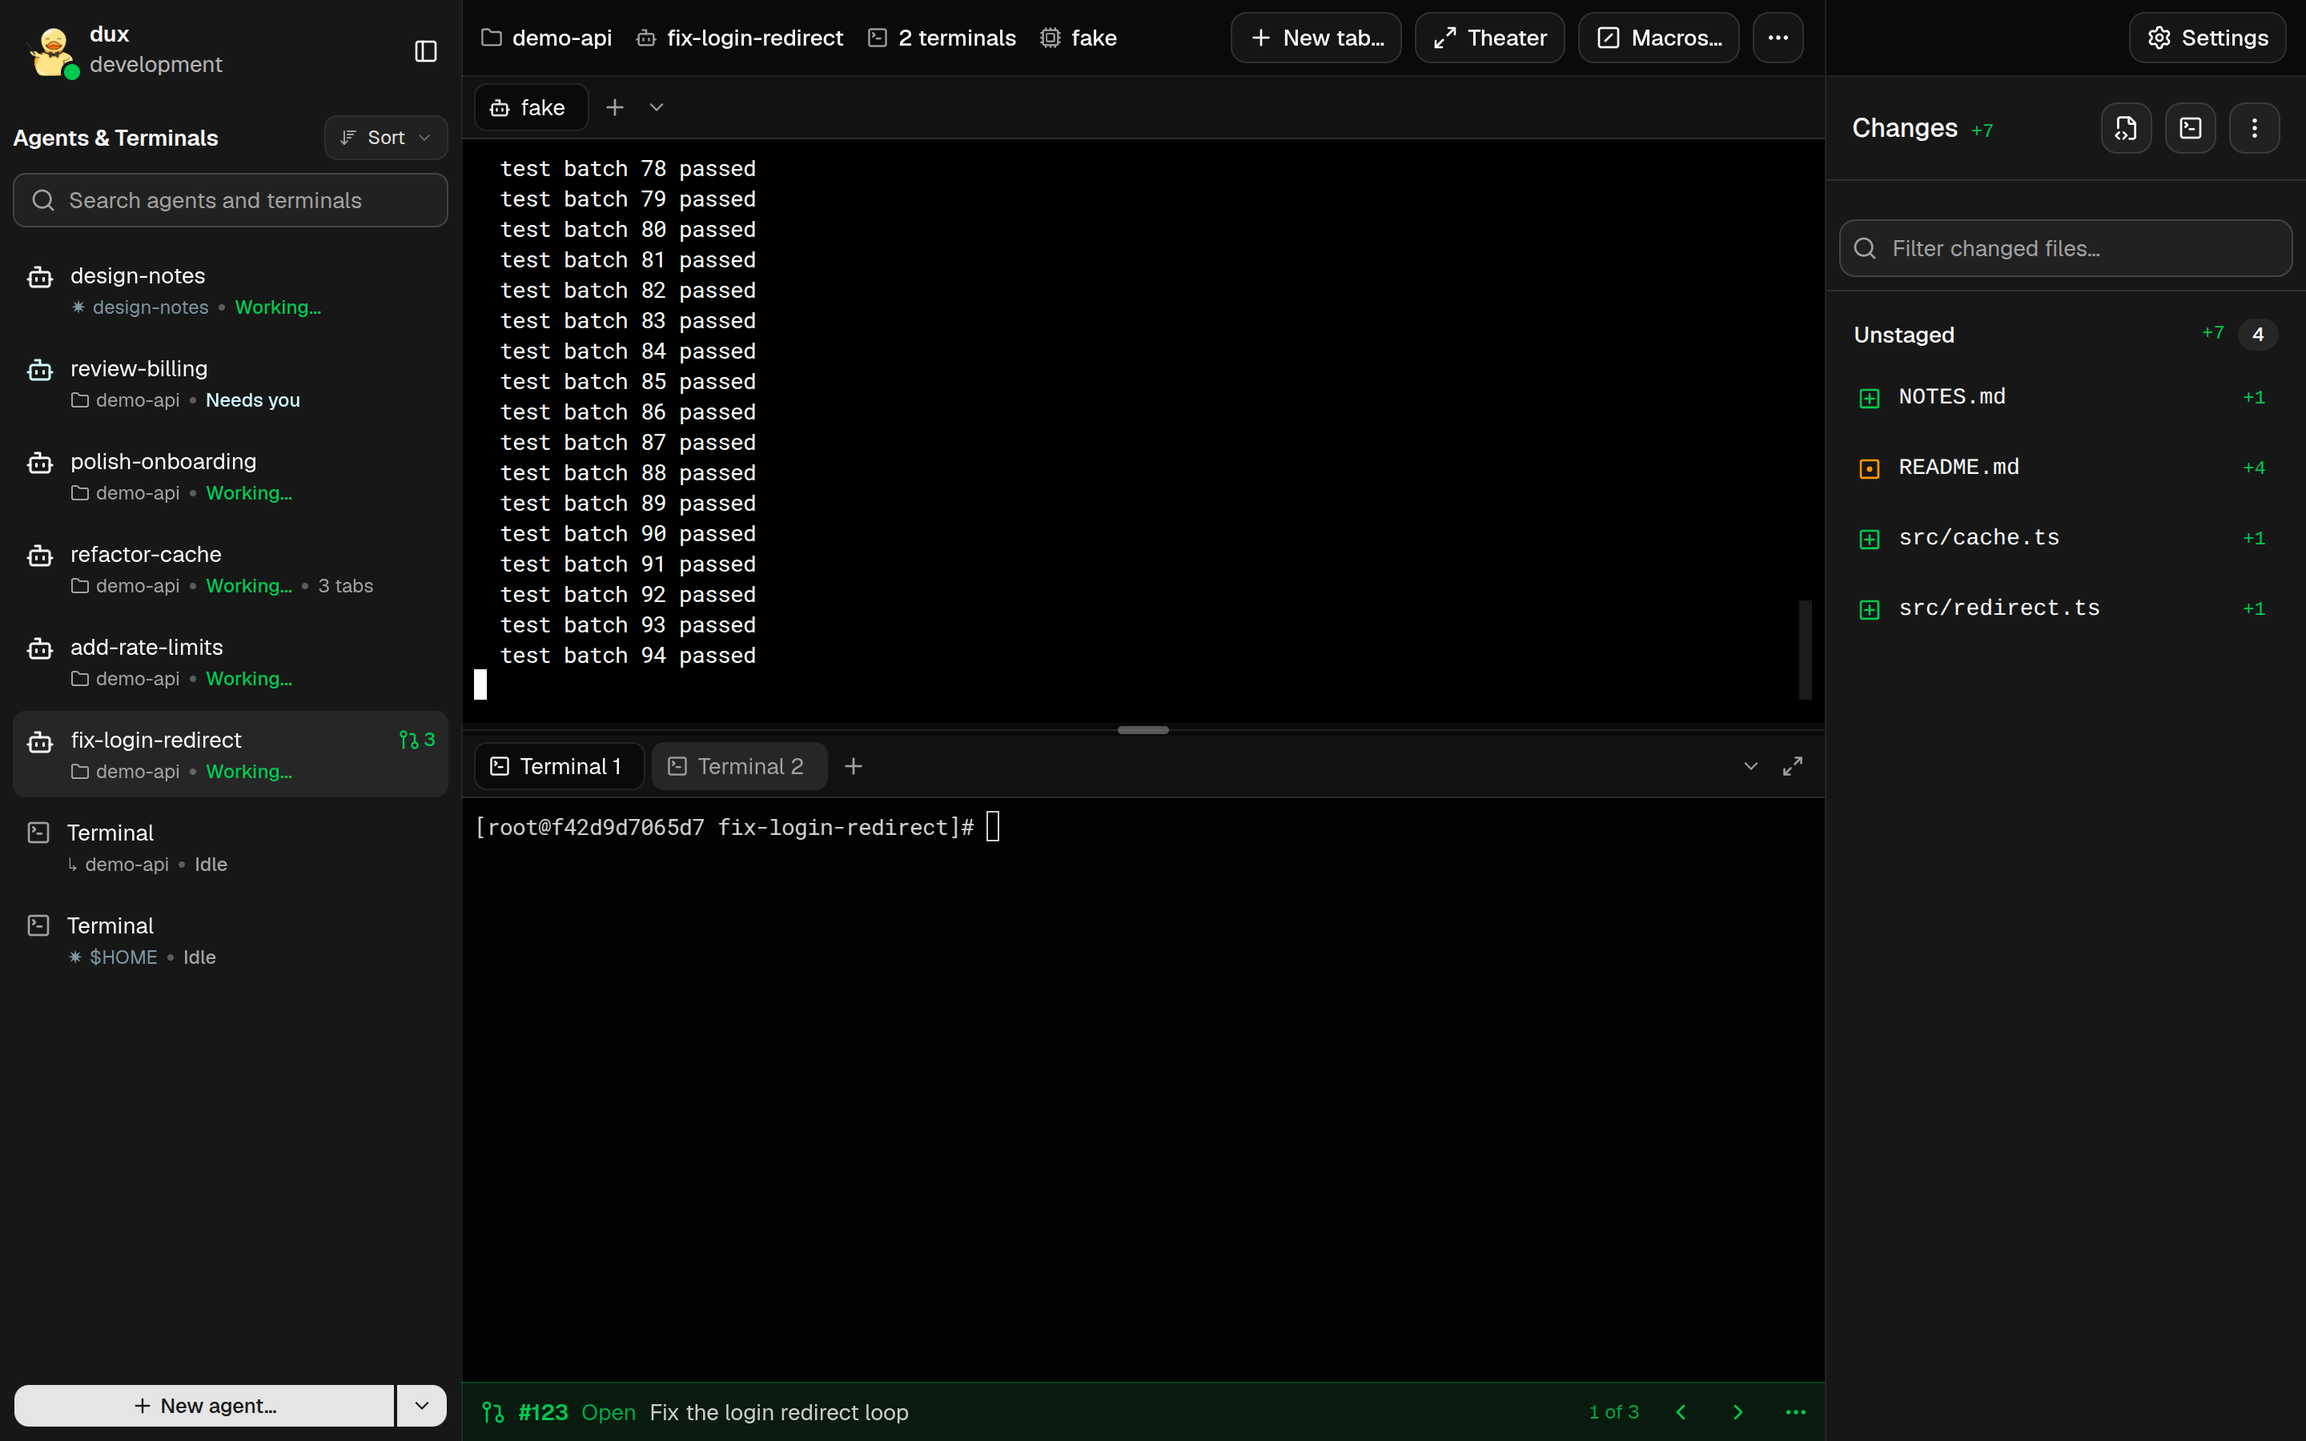
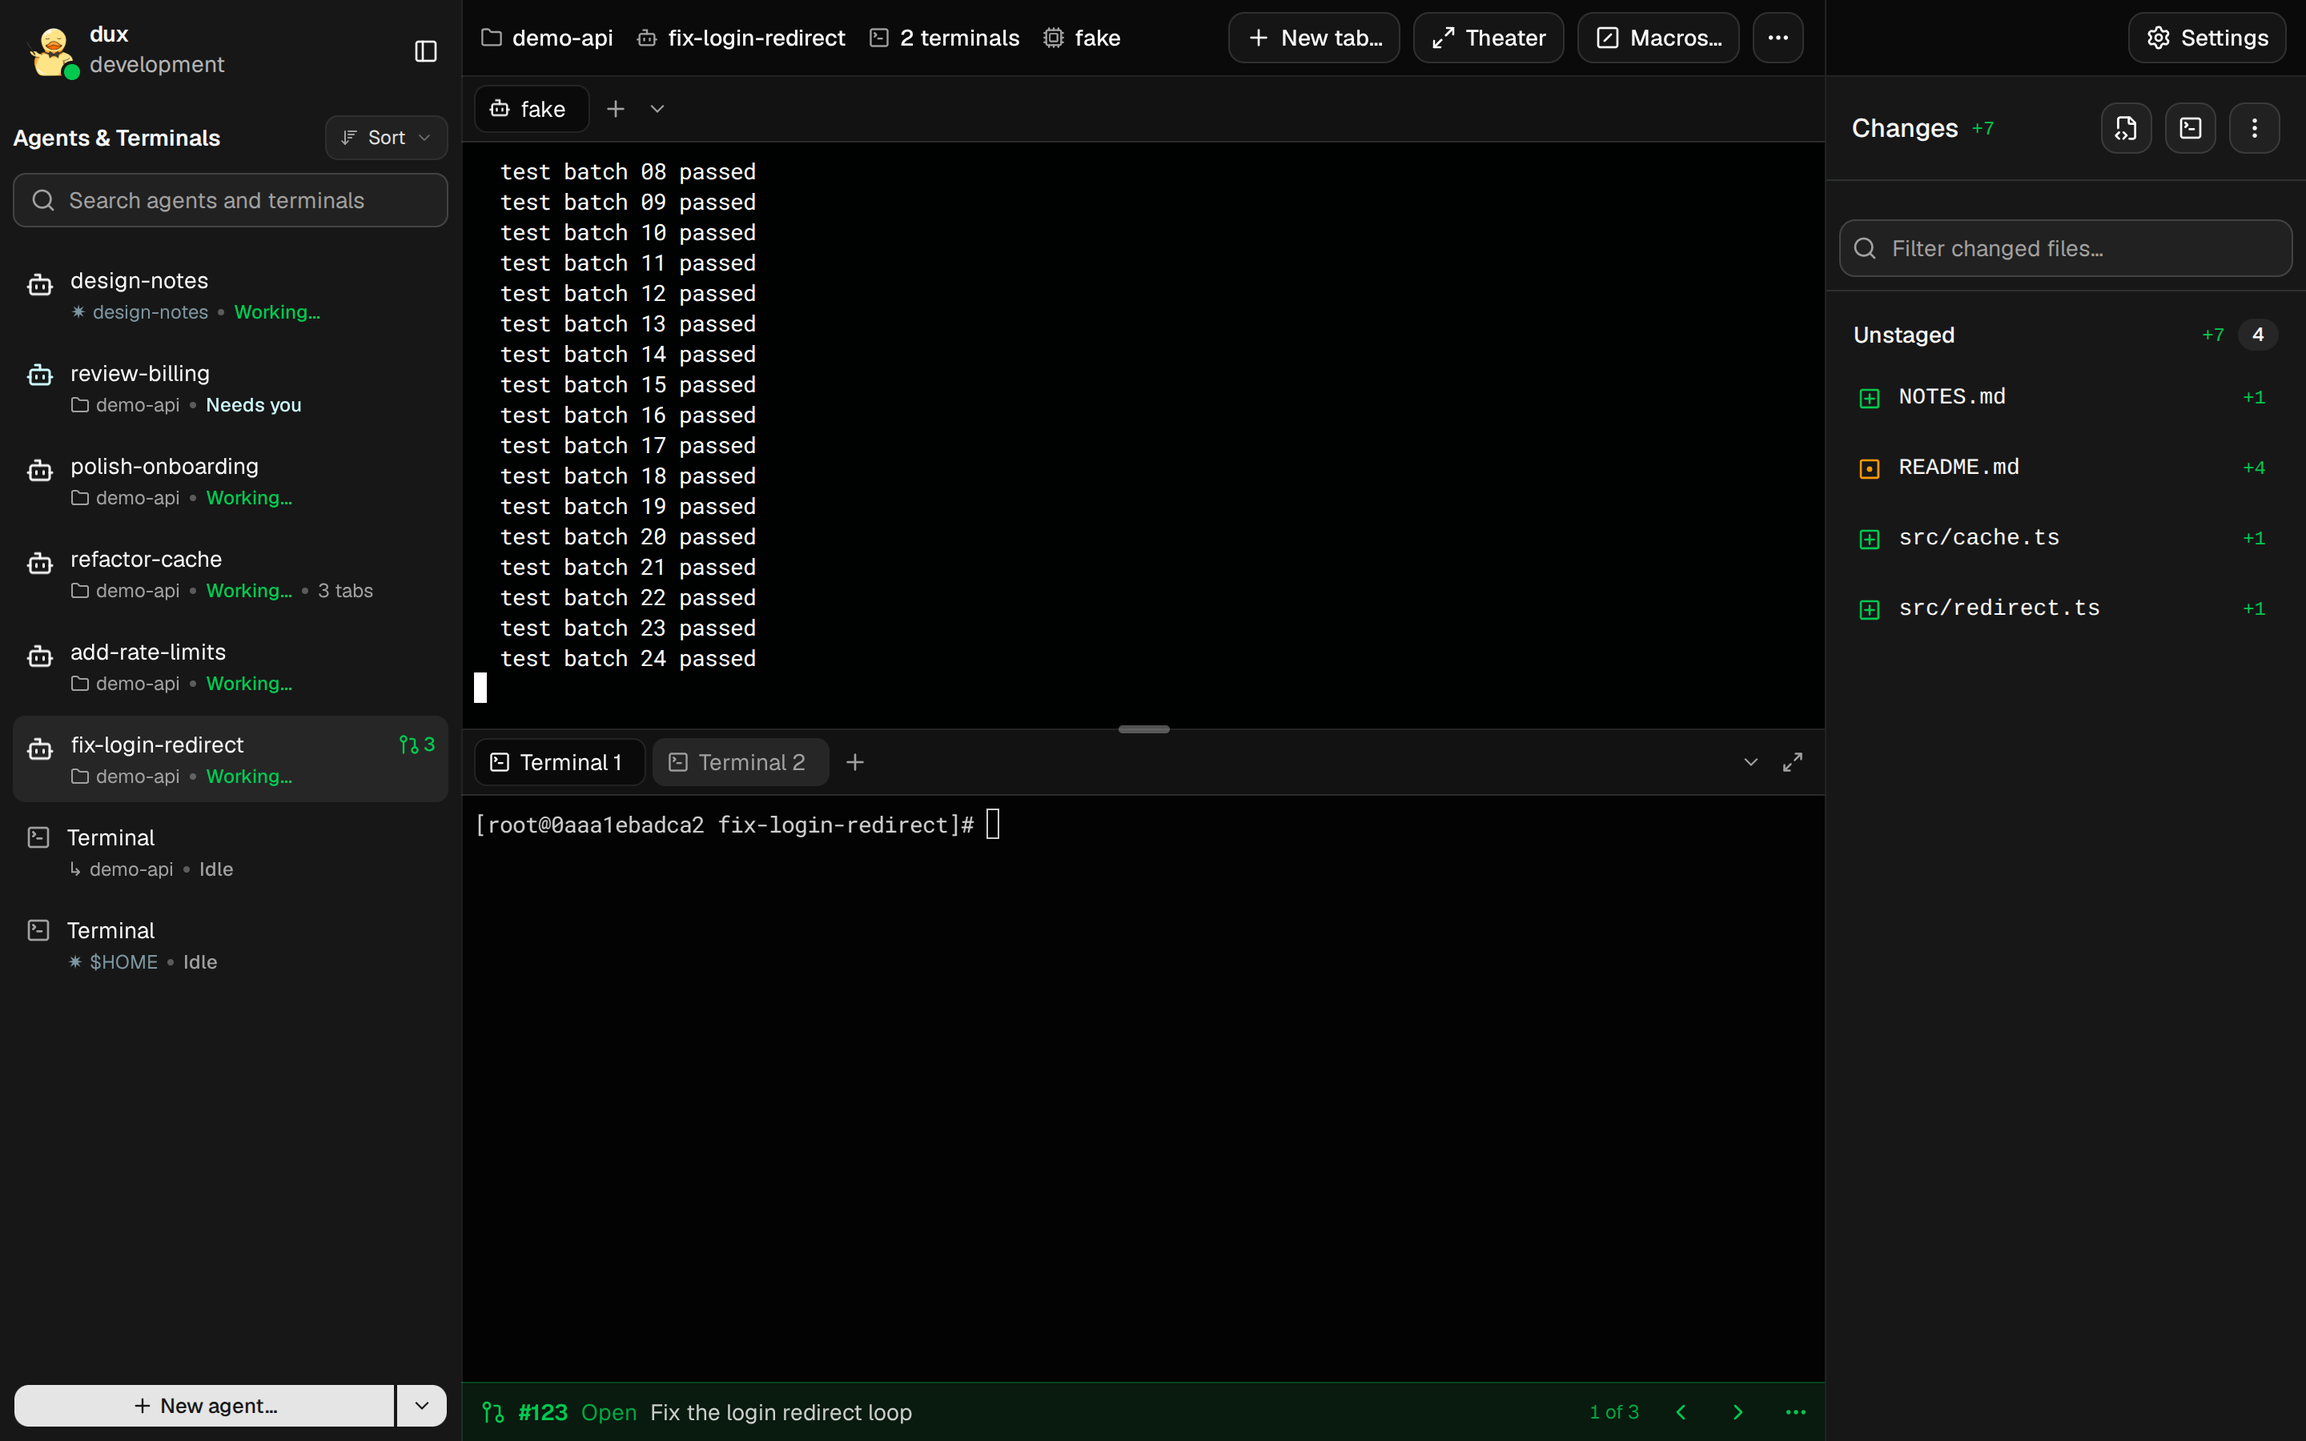
The divider between an agent and its docked terminals is now one plain line with a grip over it, like the Changes pane's, instead of a band that showed the page background between the two terminals.

diff --git a/crates/dux-web/web/src/components/DockDivider.tsx b/crates/dux-web/web/src/components/DockDivider.tsx
@@ -1,33 +1,27 @@
 import { ResizableHandle } from "@/components/ui/resizable"
 
-// The divider between an agent and its terminal dock: an 8px grab band that
-// paints nothing itself, carrying a 1px line and a centred grip pill. With the
-// strips hidden it is all the dock shows of itself while folded away.
+// The divider between an agent and its terminal dock: the shared 1px handle,
+// which is itself the line like the Changes pane's and the sidebar's, with a
+// grip pill over its middle. With the strips hidden it is all the dock shows of
+// itself while folded away.
 //
-// The band takes the shared grab behaviour (stacking, cursor, touch handling,
-// focus ring) from the Changes divider's handle, but not its paint: a filled
-// 8px band read as a grey slab rather than a border, and its first column
-// covered the sidebar's edge line. So the element is transparent in every state
-// and the line and grip light up on hover and while held instead.
+// The grab band is not painted. It is the handle's `::after`, grown to the
+// shared minimums (10px, 20px on a coarse pointer), so the hit area is no
+// smaller than when the handle was 8px tall; an 8px handle left the page
+// background showing between the two terminals as a band of its own.
 export function DockDivider({ disabled }: { disabled: boolean }) {
   return (
     <ResizableHandle
       disabled={disabled}
-      className="group/divider bg-transparent hover:bg-transparent data-[dux-held=true]:bg-transparent aria-[orientation=horizontal]:h-2"
+      // Starts one pixel in: the sidebar's edge line stands in the center
+      // pane's first column (it is pinned 1px past the sidebar), so a line
+      // from the very edge would paint over it.
+      className="group/divider ml-px aria-[orientation=horizontal]:w-[calc(100%-1px)] aria-[orientation=horizontal]:after:h-2.5 pointer-coarse:aria-[orientation=horizontal]:after:h-5"
     >
-      {/* Starts one pixel in: the sidebar's edge line stands in the center
-        * pane's first column (it is pinned 1px past the sidebar), so a line
-        * from the very edge would paint over it. */}
-      <span
-        aria-hidden
-        data-testid="dock-divider-line"
-        className="pointer-events-none absolute top-1/2 right-0 left-px h-px bg-border group-hover/divider:bg-ring group-data-[dux-held=true]/divider:bg-ring"
-      />
-      {/* 2px to 7px of the 8px band, so its middle is the line's middle. */}
       <span
         aria-hidden
         data-testid="dock-divider-grip"
-        className="pointer-events-none absolute top-0.5 left-1/2 h-[5px] w-8 -translate-x-1/2 rounded-full bg-muted-foreground/50 group-hover/divider:bg-muted-foreground group-data-[dux-held=true]/divider:bg-muted-foreground"
+        className="pointer-events-none absolute top-1/2 left-1/2 h-[5px] w-8 -translate-x-1/2 -translate-y-1/2 rounded-full bg-muted-foreground/50 group-hover/divider:bg-muted-foreground group-data-[dux-held=true]/divider:bg-muted-foreground"
       />
     </ResizableHandle>
   )

diff --git a/crates/dux-web/web/src/components/paneDividerParity.test.tsx b/crates/dux-web/web/src/components/paneDividerParity.test.tsx
@@ -176,10 +176,9 @@ describe("the two workspace dividers", () => {
 })
 
 // The third divider, between an agent and its terminal dock. It lies the other
-// way, so its band grows in height rather than width, but it is the Changes
-// divider's own handle and grabs the same way. It paints differently: its band
-// is 8px tall, so the band itself must stay clear and only its line and grip
-// light up, or it reads as a grey slab and covers the sidebar's edge line.
+// way, so its grab band grows in height rather than width, but it is the Changes
+// divider's own handle and grabs and paints the same way: the handle is the 1px
+// line, with nothing wider painted around it, and the grip pill sits over it.
 describe("the terminal dock's divider", () => {
   function dockDivider(): HTMLElement {
     const { container } = render(
@@ -192,16 +191,18 @@ describe("the terminal dock's divider", () => {
     return container.querySelector('[data-slot="resizable-handle"]')!
   }
 
-  it("grabs like the others and paints only its line and grip", () => {
+  it("grabs and paints like the others, with a grip over the line", () => {
     const el = dockDivider()
     const tokens = el.className.split(/\s+/)
     for (const token of DIVIDER_GRAB.split(/\s+/)) expect(tokens).toContain(token)
     expect(tokens).toContain(DIVIDER_STACKING)
-    expect(tokens).not.toContain("bg-border")
-    expect(tokens).not.toContain(DIVIDER_ACTIVE_PAINT)
-    const line = el.querySelector('[data-testid="dock-divider-line"]')!
+    // The line is the handle itself, as on the other dividers: no transparent
+    // band of its own that lets the page background show between the parts.
+    expect(tokens).toContain("bg-border")
+    expect(tokens).toContain(DIVIDER_ACTIVE_PAINT)
+    expect(tokens).not.toContain("bg-transparent")
+    expect(tokens).not.toContain("aria-[orientation=horizontal]:h-2")
     const grip = el.querySelector('[data-testid="dock-divider-grip"]')!
-    expect(line.className).toContain("group-data-[dux-held=true]/divider:")
     expect(grip.className).toContain("group-data-[dux-held=true]/divider:")
     expect(el.getAttribute(DIVIDER_HELD_ATTR)).toBe(DIVIDER_HELD_OFF)
     expect(el.getAttribute("role")).toBe("separator")

diff --git a/crates/dux-web/web/src/components/StackLayoutPill.tsx b/crates/dux-web/web/src/components/StackLayoutPill.tsx
@@ -64,8 +64,8 @@ export function StackLayoutPill({
 function placementStyle(placement: LayoutPillPlacement): React.CSSProperties {
   switch (placement.kind) {
     case "divider":
-      // The divider is 8px, so its middle is 4px below where it starts.
-      return { top: `calc(${placement.agentPercent}% + 4px)`, transform: "translateY(-50%)" }
+      // The divider is 1px, so its middle is half a pixel below where it starts.
+      return { top: `calc(${placement.agentPercent}% + 0.5px)`, transform: "translateY(-50%)" }
     case "bottom":
       return { bottom: "12px" }
     case "top":

diff --git a/crates/dux-web/web/src/components/TerminalArea.test.tsx b/crates/dux-web/web/src/components/TerminalArea.test.tsx
@@ -1040,7 +1040,7 @@ describe("TerminalArea dock", () => {
     const pill = () => screen.getByTestId("stack-layout-pill")
     mockState = dockState({ layout: "split" })
     const { rerender } = render(<TerminalArea />)
-    expect((await screen.findByTestId("stack-layout-pill")).style.top).toMatch(/^calc\(\d+% \+ 4px\)$/)
+    expect((await screen.findByTestId("stack-layout-pill")).style.top).toMatch(/^calc\(\d+% \+ 0\.5px\)$/)
     mockState = dockState({ layout: "agent" })
     rerender(<TerminalArea />)
     expect(pill().style.bottom).toBe("12px")

diff --git a/tools/preview-env/screens/scenes/web-terminal-dock-hidden-strips.js b/tools/preview-env/screens/scenes/web-terminal-dock-hidden-strips.js
@@ -34,7 +34,8 @@ module.exports = {
     })
     await sleep(800)
     await expectVisible(page, '[data-testid="stack-layout-pill"]', "the floating layout pill")
-    await expectVisible(page, '[role="separator"][aria-orientation="horizontal"]', "the divider")
+    // The line itself is 1px, under the guard's minimum, so the grip stands for it.
+    await expectVisible(page, '[data-testid="dock-divider-grip"]', "the divider's grip")
     return { x: 0, y: 0, width: 1440, height: 900 }
   },
 }

diff --git a/CLAUDE.md b/CLAUDE.md
@@ -159,7 +159,7 @@ The web UI (`crates/dux-web/web/`, React + Vite + Tailwind) has its own conventi
 - **Terminals are runtime-only.** No SQLite row, no config entry, no restore across restarts. Existence equals a running PTY.
 - **Project and standalone terminals do not run the project's `startup_command`.** That command is a worktree provisioning step for new agents; a terminal is a plain shell.
 - **Removing a project closes its project terminals; deleting an agent closes that agent's; nothing closes a standalone terminal automatically.** The last is a decision, not an oversight, and is documented beside both close paths so nobody later "fixes" the omission. Detaching an agent leaves its terminals running.
-- **An agent's terminals dock under it, on every surface, and either part can take the whole center pane.** The center pane is the agent on top and, when it has any terminal, a dock below with a strip of its own, one pill per terminal; an agent's terminals are reached through its dock and are not rows of the list. Only the device driving the row is shown the dock: under the take-over card the center pane is the agent alone, on every surface. On a computer and in the terminal UI three layouts exist, the agent alone, the split and the dock alone, each reachable from every other; a phone shows the agent or its terminals, never both, switched by the button in the action cluster. On the web the dock is the bottom of a split with an 8px divider that paints a 1px line and a centred grip, lit on hover and while held; a part folded away, by a layout control or a drag past its minimum, keeps its strip and stays mounted at its split height, clipped, never shrunk; the dock strip's right end carries the layout controls and a `+`, and while the strips are hidden a floating pill on the divider carries the layout controls alone, adding living in the pane header's New tab…; and the store's typing target is always a part on screen. In the terminal UI one binding and the `agent | split | term` control reach every layout, dragging the divider to an edge shows one part alone, and the agent layout does not draw the dock. The layout, the phone's view and the dock terminal in front are per-device view state, never config or SQLite: the browser remembers them, and the tab on top, per agent in its own storage, and the terminal UI remembers the layout per agent in runtime memory only, its split share being `[ui] terminal_dock_pct`. Nothing that opens an agent starts it while one of its terminals is running: it opens on its terminal with a not-running band and Start (on a phone, from a tap on its row; an address opens the part it names). In the terminal UI, with the dock focused the tab keys walk its pills and the close binding closes its active terminal behind the existing confirm, and the part that receives bytes is always the part being typed into or shown fullscreen, never merely the last one focused. On both surfaces the header names the row, never the terminal with focus.
+- **An agent's terminals dock under it, on every surface, and either part can take the whole center pane.** The center pane is the agent on top and, when it has any terminal, a dock below with a strip of its own, one pill per terminal; an agent's terminals are reached through its dock and are not rows of the list. Only the device driving the row is shown the dock: under the take-over card the center pane is the agent alone, on every surface. On a computer and in the terminal UI three layouts exist, the agent alone, the split and the dock alone, each reachable from every other; a phone shows the agent or its terminals, never both, switched by the button in the action cluster. On the web the dock is the bottom of a split with a divider that is one plain 1px line, as the Changes pane's is, wearing a centred grip over it, the line and the grip lit on hover and while held; a part folded away, by a layout control or a drag past its minimum, keeps its strip and stays mounted at its split height, clipped, never shrunk; the dock strip's right end carries the layout controls and a `+`, and while the strips are hidden a floating pill on the divider carries the layout controls alone, adding living in the pane header's New tab…; and the store's typing target is always a part on screen. In the terminal UI one binding and the `agent | split | term` control reach every layout, dragging the divider to an edge shows one part alone, and the agent layout does not draw the dock. The layout, the phone's view and the dock terminal in front are per-device view state, never config or SQLite: the browser remembers them, and the tab on top, per agent in its own storage, and the terminal UI remembers the layout per agent in runtime memory only, its split share being `[ui] terminal_dock_pct`. Nothing that opens an agent starts it while one of its terminals is running: it opens on its terminal with a not-running band and Start (on a phone, from a tap on its row; an address opens the part it names). In the terminal UI, with the dock focused the tab keys walk its pills and the close binding closes its active terminal behind the existing confirm, and the part that receives bytes is always the part being typed into or shown fullscreen, never merely the last one focused. On both surfaces the header names the row, never the terminal with focus.
 - **A terminal row is an agent row.** It renders through the same shared row component and idiom on both surfaces (the framed two-line row, the same selection painting), never through a lesser single-line item. The row contract is two lines of `[glyph] [left text that ellipsizes] … [right text that survives]`; when the agent row's framing changes, the terminal row moves with it because they share the code.
 - **A terminal has three states only: idle, running, typing.** Never detached or needs-attention (a live PTY is alive or gone). Priority mirrors the agent row; the busy word is "Running" rather than "Working" on purpose. A terminal is busy when it is streaming output or a foreground app is running in it, even while quiet; the predicate lives once in the engine so both surfaces agree.
 - **Typing is a real keystroke; a forwarded pointer report is neither typing nor evidence of work.** One classifier in core sorts every PTY write into typing, pointer, or ignored, and both surfaces route through it. A pointer report makes mouse-tracking children repaint, so while the pointer window is fresh the engine stops inferring "working" from output text and defers to the agent's own progress reports; the suppression window is per gesture (longer for wheel, short for click, none for motion). Only the streaming inference is suppressed, never the foreground-app fact.
